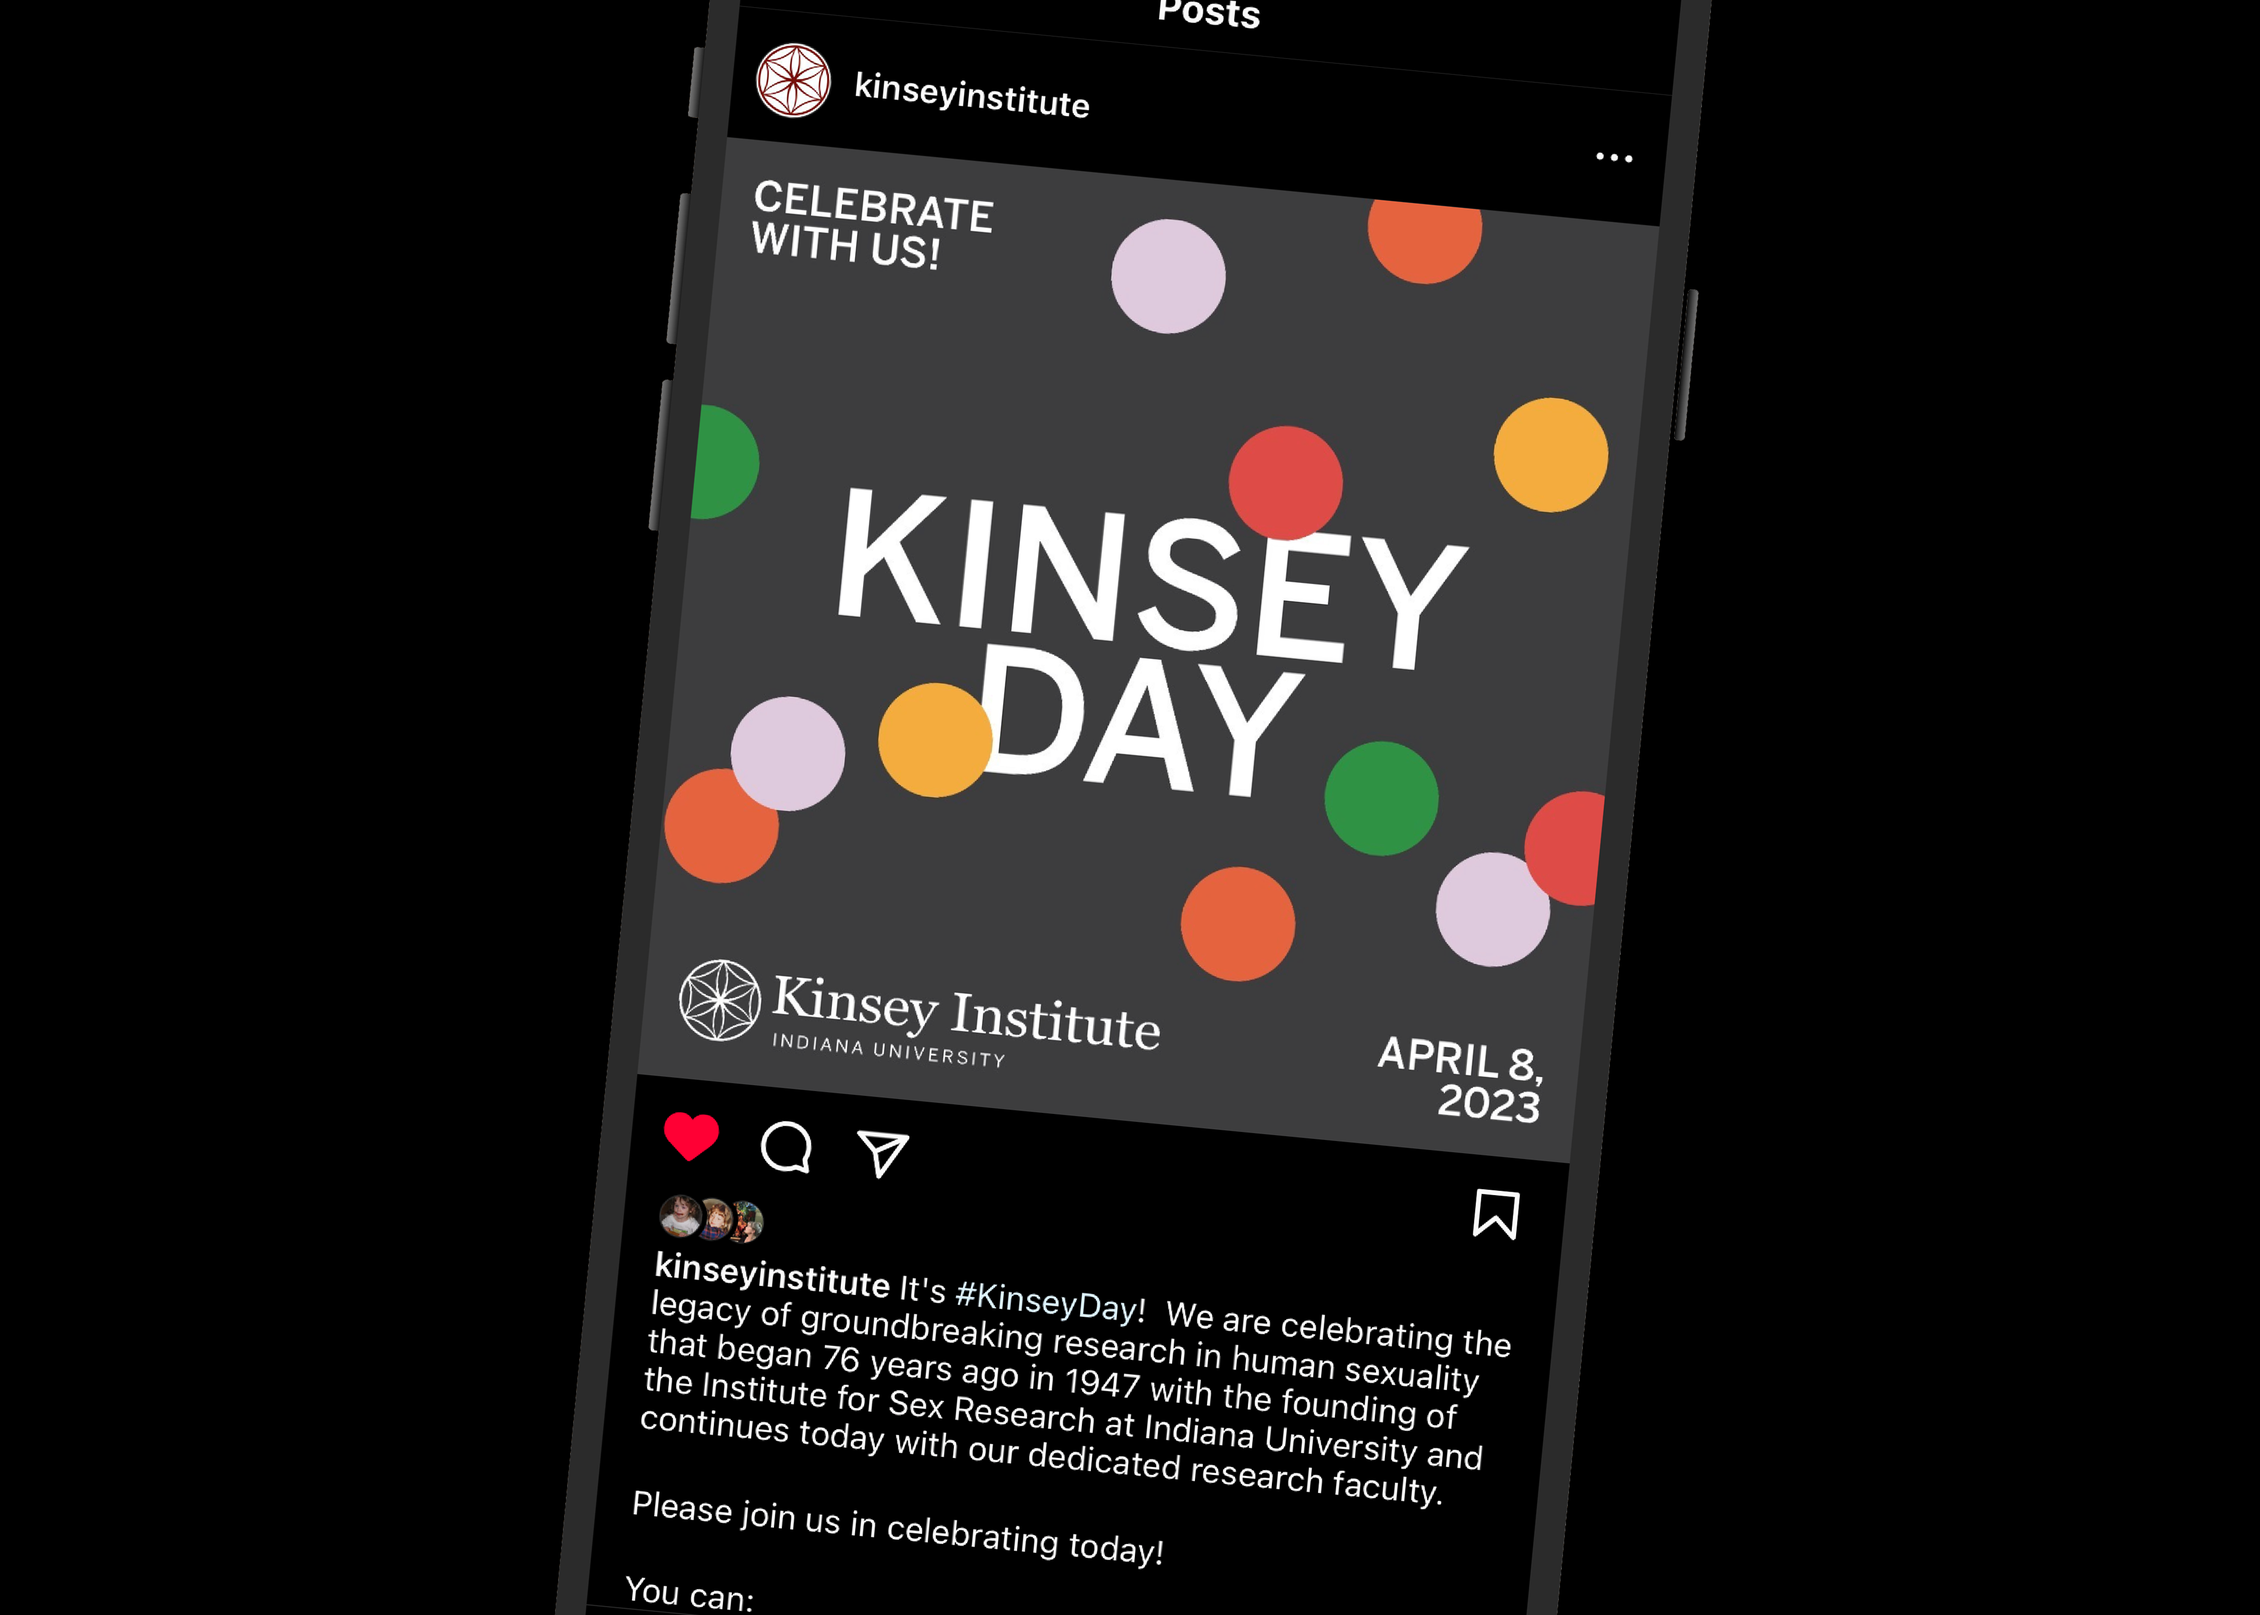
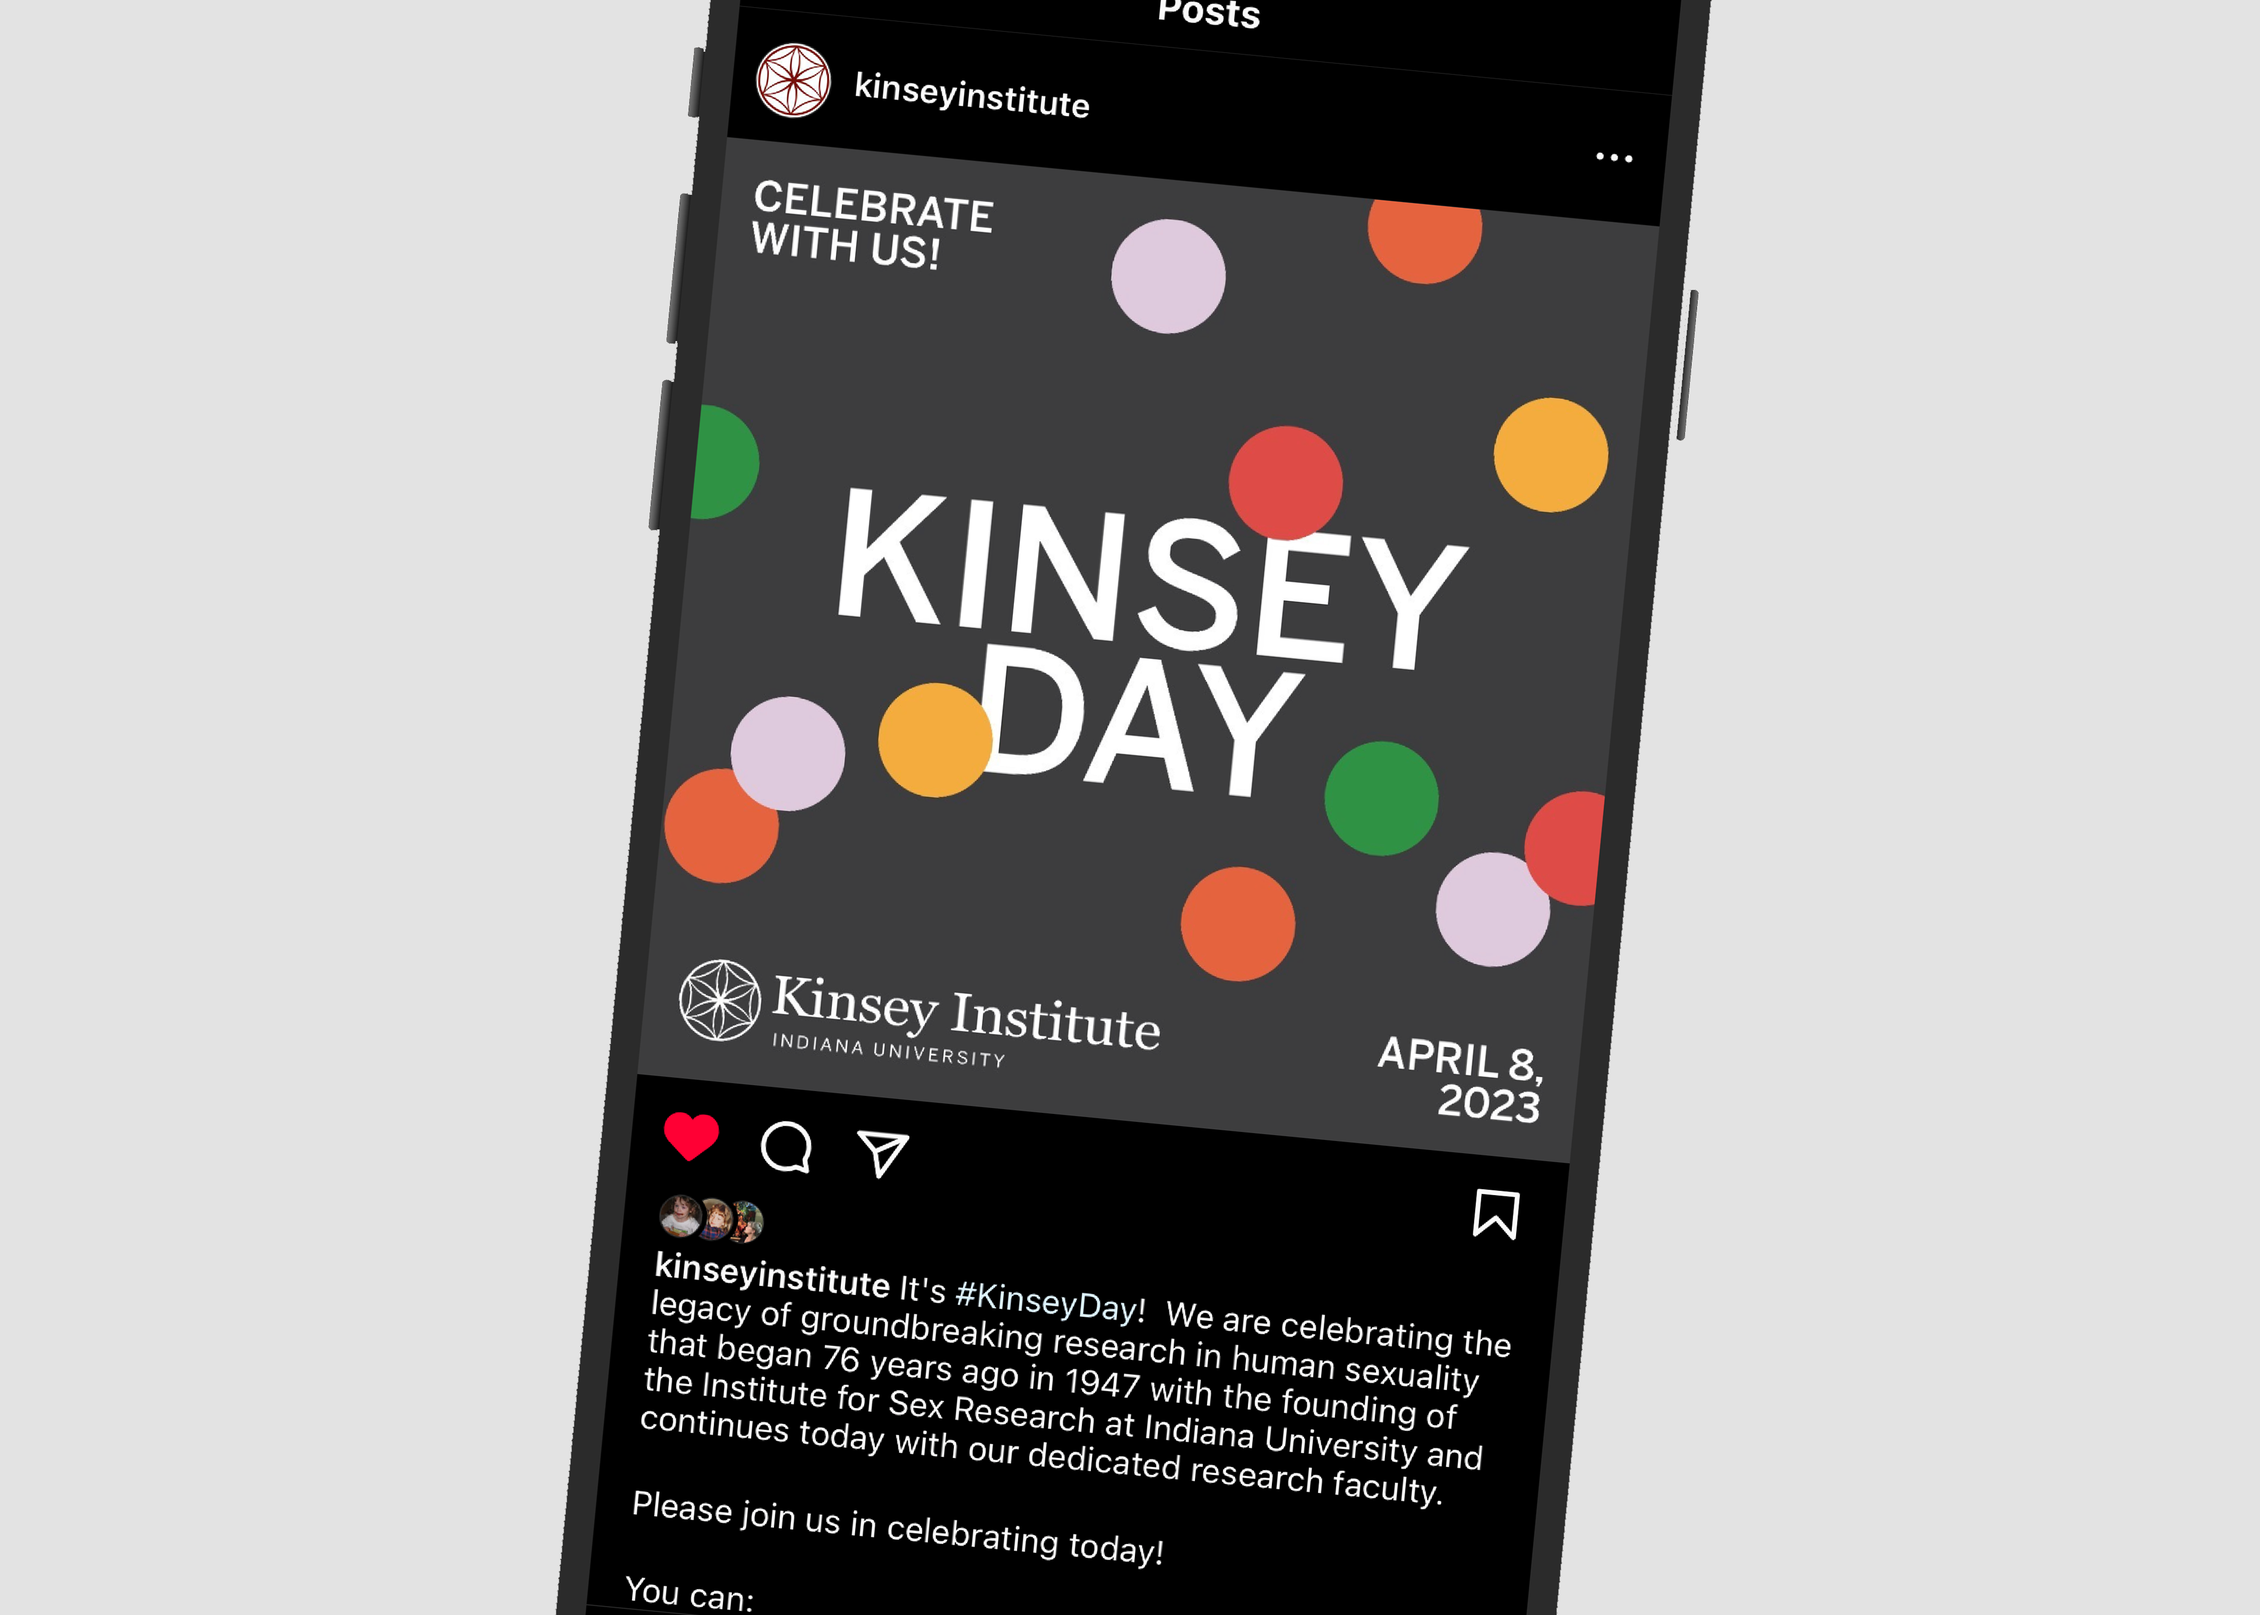
ok

diff --git a/index.html b/index.html
@@ -38,19 +38,19 @@
         <br><br><div class="space"></div>
         
 
-        <div class="alt">Short CV</div>
+        <div class="alt">CV</div>
         <div class="space"></div>
 
-<div class="alt2">Self-Published</div>
+<div class="alt2">Selected Publications</div>
 <div class="space"></div>
 <em>Girlhood Arrested: How Girlhood is Shaped by the Carceral Landscape in Louisiana</em>
-<div class="cv-info">Co-authored with The Visiting Room Project and Dr. Kennedi Johnson, 2026</div>
+<div class="cv-info">Designer (self), Co-Authored with The Visiting Room Project and Dr. Kennedi Johnson, 2026</div>
 <div class="space"></div>
 <a href="https://digitalcommons.risd.edu/masterstheses/1639/" target="_blank"><em>countersense</em></a>
 <div class="cv-info">RISD MFA Thesis, 2026</div>
 <div class="space"></div>
-<em>girlhood & its aftermath: feminist reflections on adolescence</em>
-<div class="cv-info">Anthology, 2023</div>
+<em>girlhood & its aftermath: feminist reflections on adolescence</em> Anthology
+<div class="cv-info">Editor, Writer, and Designer, Self-Published, 2023</div>
 <div class="space"></div>
 
 <div class="alt2">Education</div>
@@ -66,13 +66,12 @@ BFA, Studio Art—Graphic Design
 <div class="alt2">Para-Institutional Education</div>
 <div class="space"></div>
 Typography Summer School
-<div class="cv-info">with Other Means, Geoff Han, Frasier Muggeridge Studio, and Michael Bierut, Brooklyn, NYC</div>
+<div class="cv-info">with Other Means, Geoff Han, Fraser Muggeridge Studio, and Michael Bierut, Brooklyn, NYC</div>
 <div class="space"></div>
 
 <div class="alt2">Teaching</div>
 <div class="space"></div>
-<!-- Instructor, Color + Surface
-<div class="cv-info">Rhode Island School of Design, Spring 2027</div> -->
+
 Instructor, Graphic Design I
 <div class="cv-info">Community College of Rhode Island, Fall 2026</div>
 <div class="space"></div>
@@ -109,7 +108,11 @@ Graphic Design Area Award
 Grafton D. Trout Essay Award
 <div class="cv-info">Indiana University, Art History Department—best paper of year</div>
 <div class="space"></div>
-
+<div class="alt2">Solo Exhibition</div>
+<div class="space"></div>
+<em>girlhood redefined</em>
+<div class="cv-info">Tangent Gallery, Bloomington, IN, 2024</div>
+<div class="space"></div>
 <div class="alt2">Speaking</div>
 <div class="space"></div>
 MFA Thesis Writing Workshop
@@ -118,10 +121,18 @@ MFA Thesis Writing Workshop
 "Body of Knowledge," Graduate Artist Talk
 <div class="cv-info">Rhode Island School of Design, Winter 2026</div>
 <div class="space"></div>
-<div class="alt2">Solo Exhibition</div>
+<div class="alt2">Research</div>
 <div class="space"></div>
-<em>girlhood redefined</em>
-<div class="cv-info">Tangent Gallery, Bloomington, IN, 2024</div>
+Karen Brodine Collection
+<div class="cv-info">Archival research of writings, notes, and works of poet, typesetter, and political organizer Karen Brodine, Supported through the RISD Commons Grant, San Francisco Public Library, San Francisco, CA, 2026—associated with <em>countersense</em>, <em>fragments of a future</em>, and <em>The houses, the air, the streets</em></div>
+<div class="space"></div>
+Kinsey Institute
+<div class="cv-info">Primary research on norms of girlhood constructed through 20th century sex education home guides, Kinsey Library Collections, Bloomington, IN, 2023–24—associated with <em>girlhood redefined</em></div>
+<div class="space"></div>
+RISD 150th Anniversary
+<div class="cv-info">Historical fact-finding on the past 150 years of RISD, RISD Marketing and Communications, Providence, RI, 2026</div>
+<div class="space"></div>
+
 
 <!-- <div class="space"></div>
 
@@ -148,10 +159,10 @@ MFA Thesis Writing Workshop
                     <div class="container"><img src="./resources/index images/end of history 2.png" data-project="end"><div class="overlay" id="eh-overlay"></div></div>
                     <div class="container"><img src="./resources/index images/grad studies-index.png" data-project="tote"><div class="overlay" id="gs-overlay"></div></div>
                     <div class="container"><img src="./resources/index images/triennial.png" data-project="triennial"><div class="overlay" id="tw-overlay"></div></div>
-                    <div class="container"><img src="./resources/index images/risd-gallery-brochure-indx.png" data-project="gallery"><div class="overlay" id="ri-overlay"></div></div>
-                    <div class="container"><img src="./resources/index images/fragments of the future index.png" data-project="future"><div class="overlay" id="ff-overlay"></div></div>
-                    <div class="container"><img src="./resources/index images/kinsey day IG-index.png" data-project="kinsey"><div class="overlay" id="ki-overlay"></div></div>
                     <div class="container"><img src="./resources/index images/houses-air-streets-index.png" data-project="air"><div class="overlay" id="kb-overlay"></div></div>
+                    <div class="container"><img src="./resources/index images/risd-gallery-brochure-indx.png" data-project="gallery"><div class="overlay" id="ri-overlay"></div></div>
+                    <div class="container"><img src="./resources/index images/kinsey day IG-index.png" data-project="kinsey"><div class="overlay" id="ki-overlay"></div></div>                   
+                    <div class="container"><img src="./resources/index images/fragments of the future index.png" data-project="future"><div class="overlay" id="ff-overlay"></div></div>
                     <div class="container"><img src="./resources/index images/emptypedestal-index.png" data-project="pedestal"><div class="overlay" id="ep-overlay"></div></div>
             </div>
 
@@ -328,7 +339,7 @@ MFA Thesis Writing Workshop
                 <div>Designer</div>
                 </div>
                 <br>
-                Infographics, social media graphics, and cover designs I created for the Kinsey Institute, a world-renowned research institute at Indiana University that studies sex, sexuality, gender, and reproduction.
+                Selected infographics, social media graphics, and cover designs I created as graphic designer at the Kinsey Institute, a world-renowned research institute at Indiana University that studies sex, sexuality, gender, and reproduction.
                 <br><br>
                  <img src="./resources/Images/kinsey5.jpg">
                 <img src="./resources/Images/kinsey day IG.png">
@@ -350,9 +361,13 @@ MFA Thesis Writing Workshop
                 <br><br>
                         <img src="./resources/Images/silk prints.png">
                         <img src="./resources/Images/IMG_8601.png">
+                        <img src="./resources/Images/mixed.gif">
                         <img src="./resources/Images/IMG_8615.png">
+                        <img src="./resources/Images/7.png">
                         <img src="./resources/Images/IMG_8653.png">
+                        <img src="./resources/Images/8.png">
                         <img src="./resources/Images/IMG_86422.png">
+                        <img src="./resources/Images/9.png">
                 </div>
 
                 <div class="project" id="pedestal">
